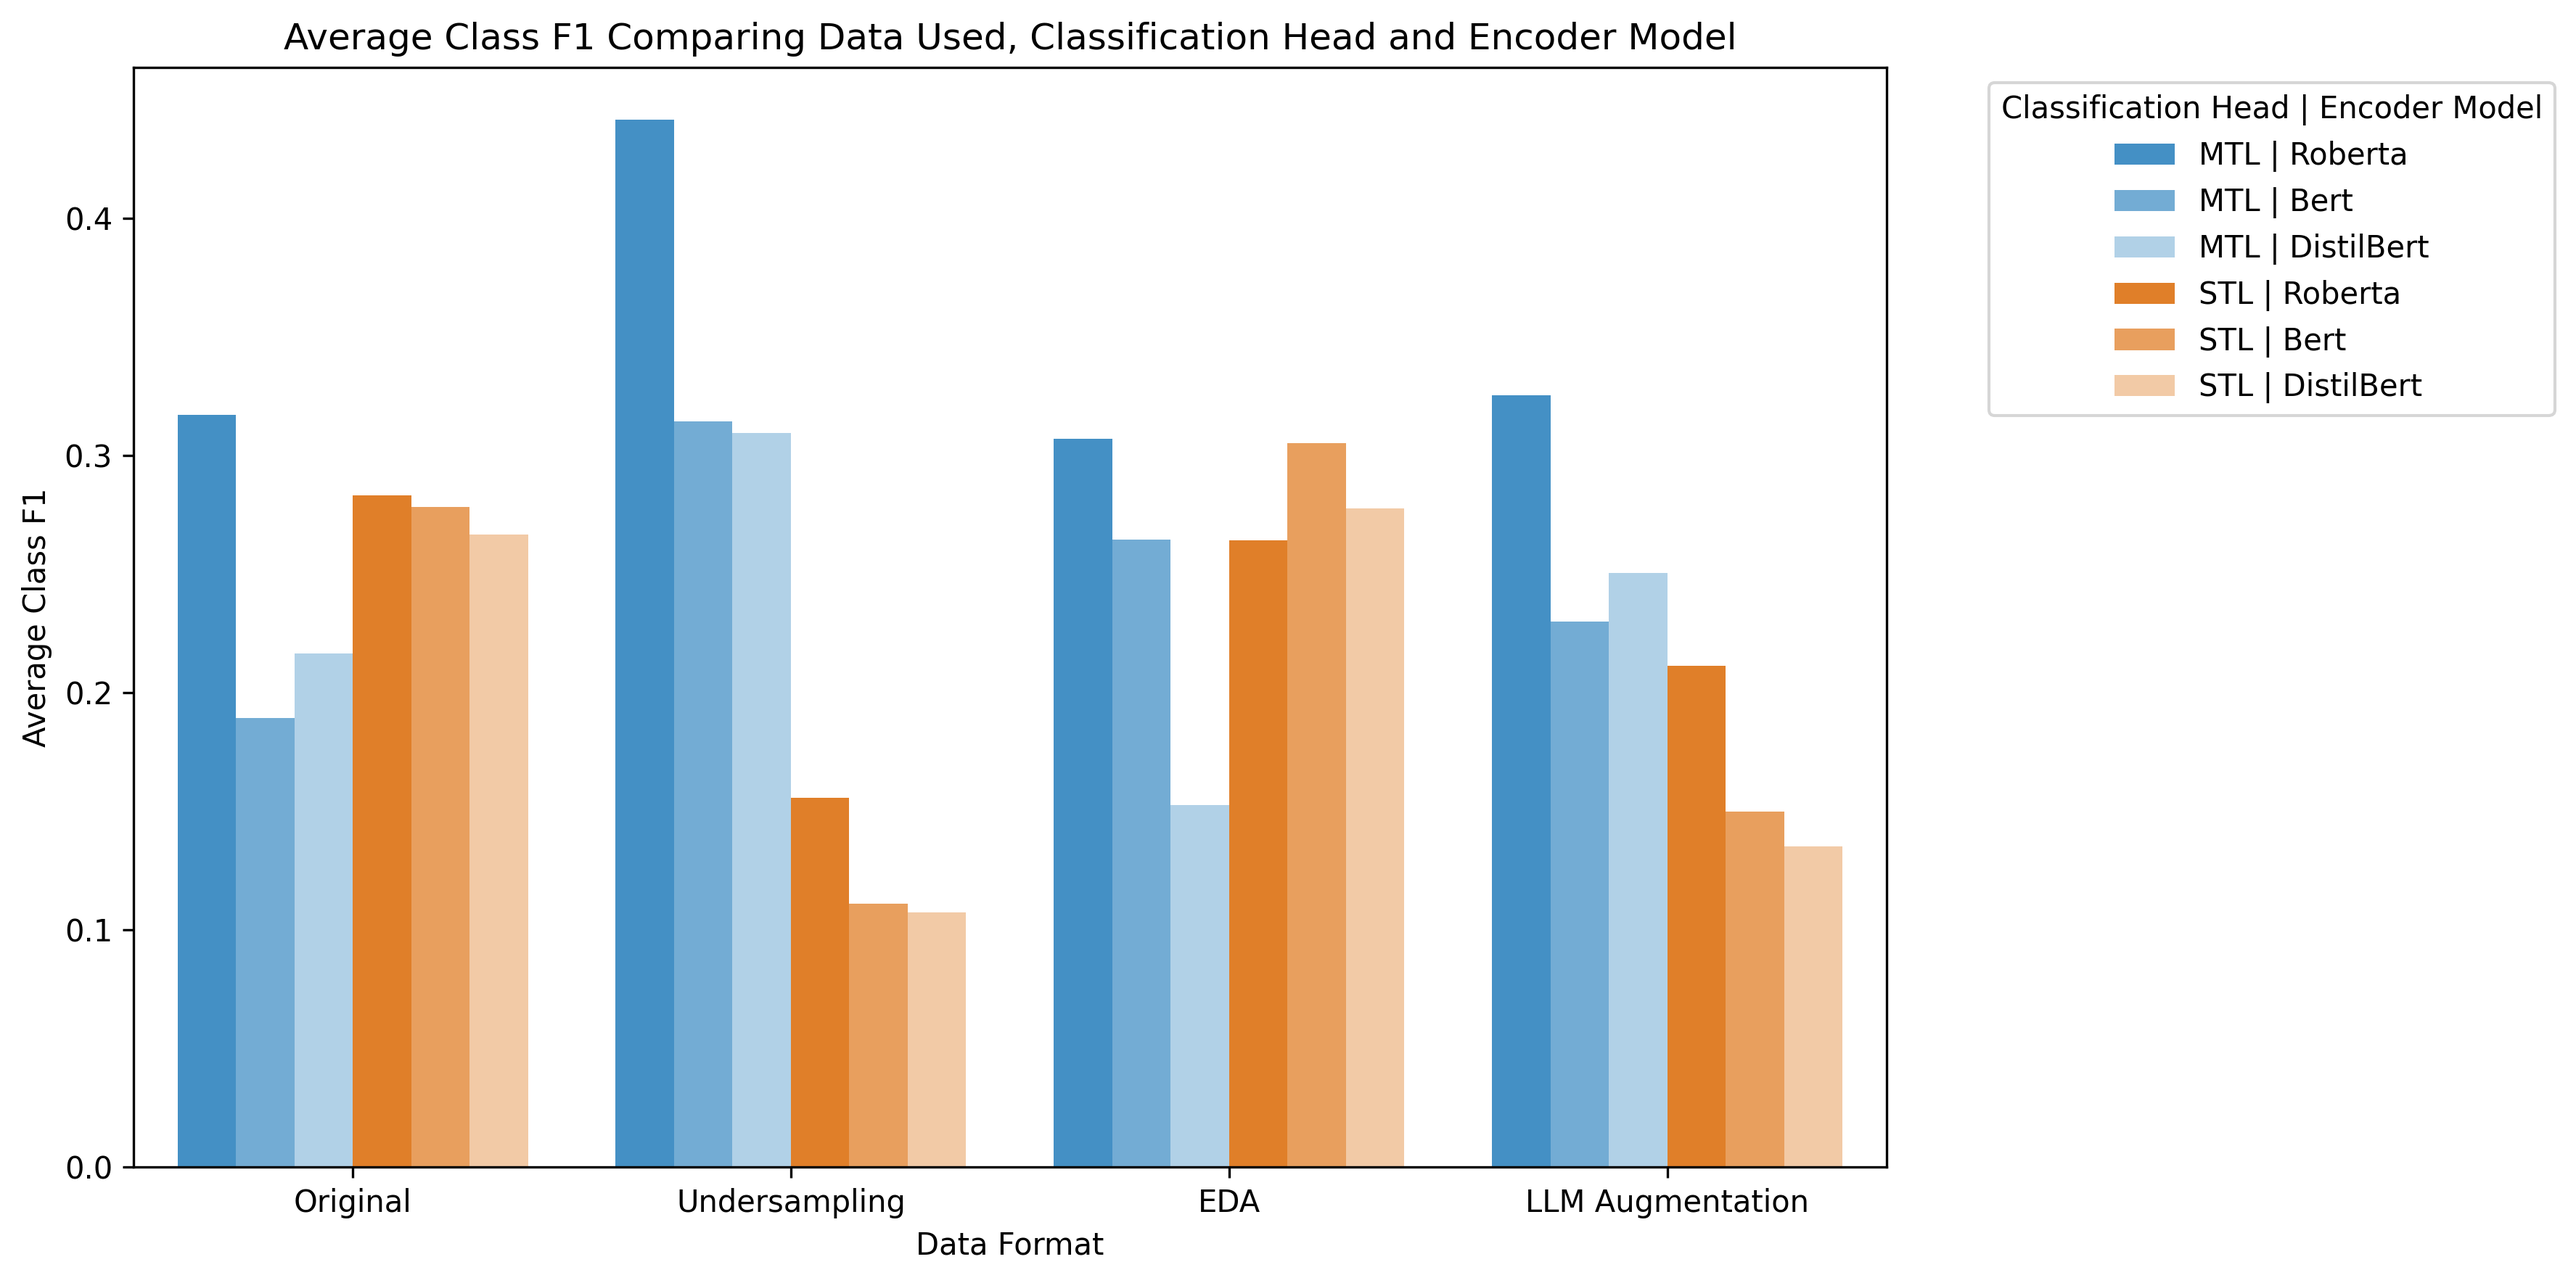
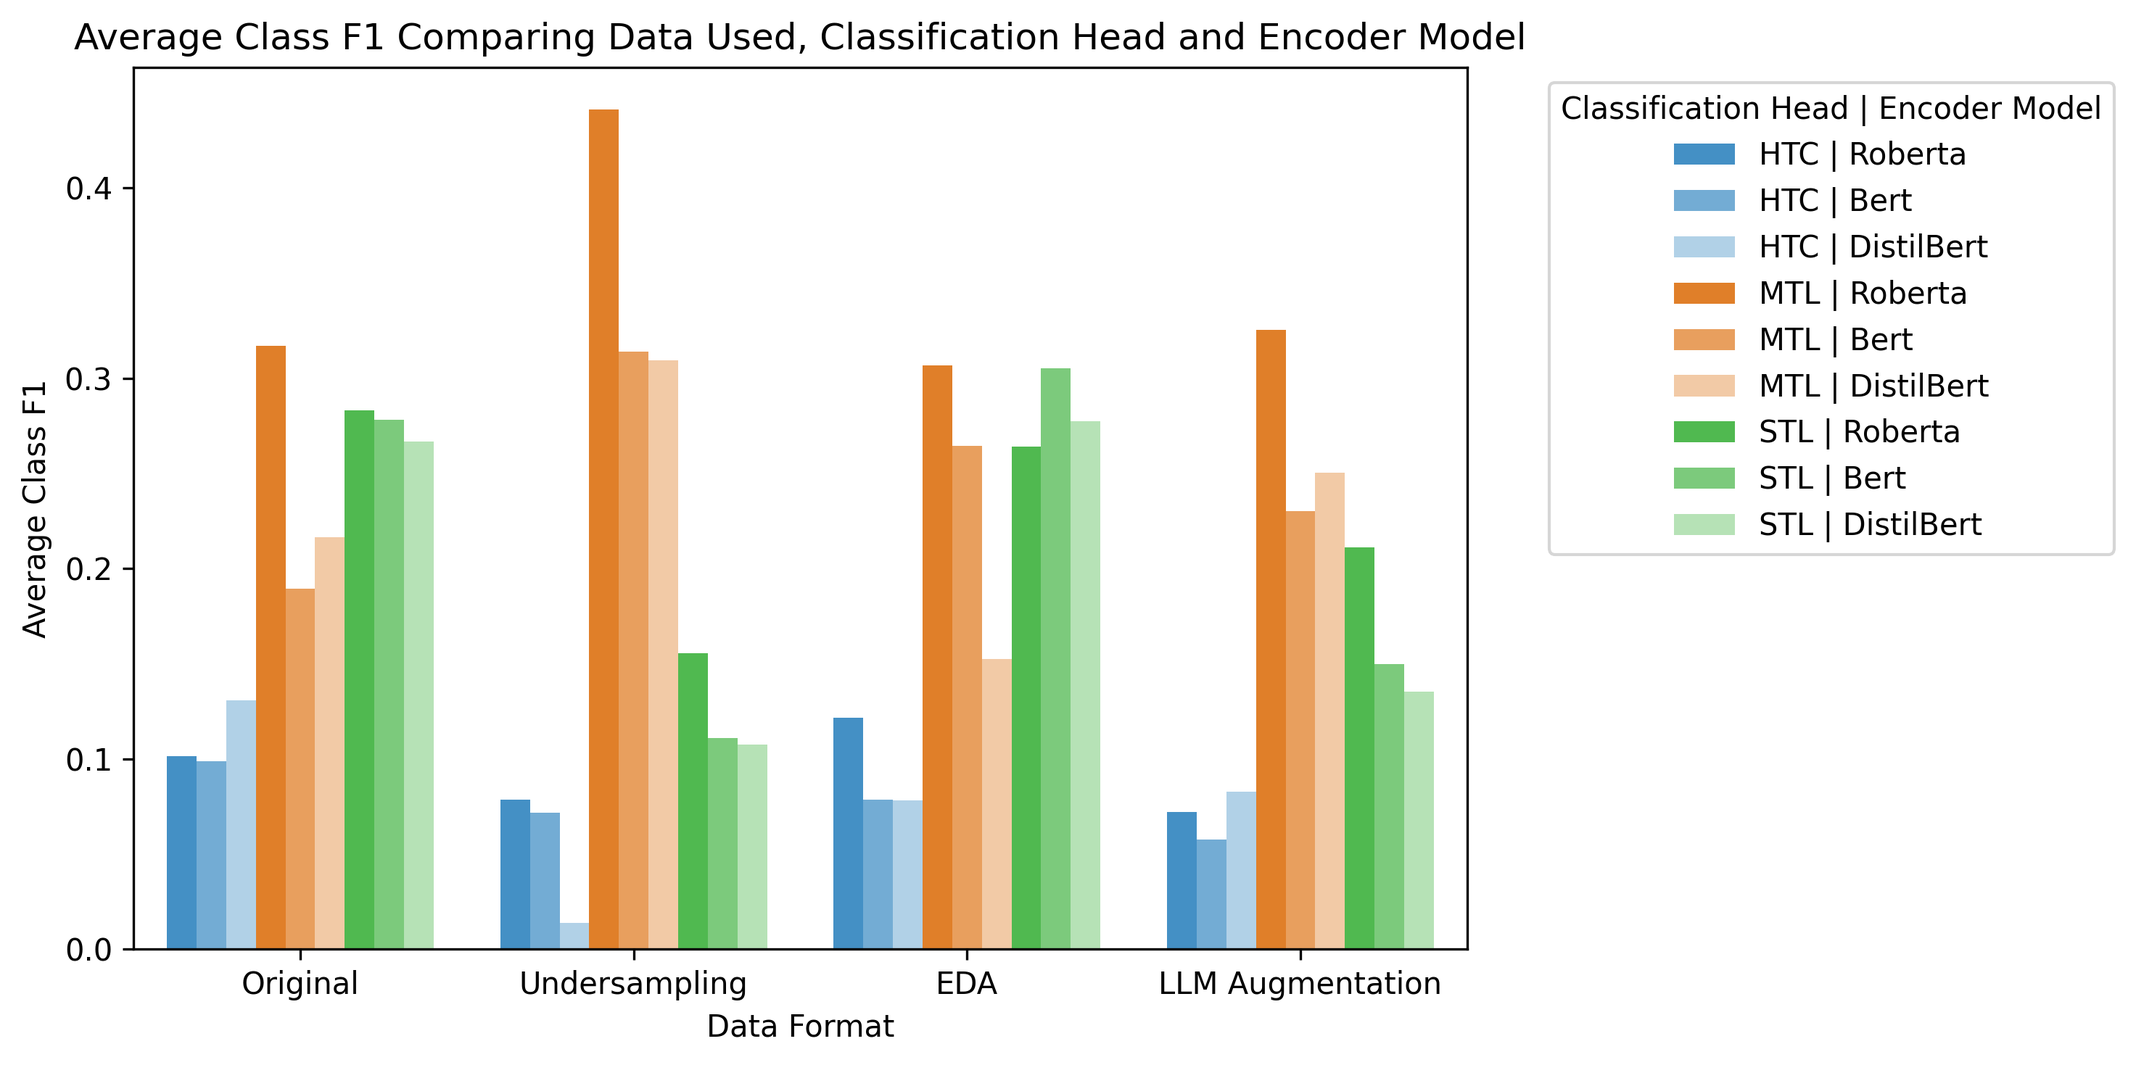
removed old plots

diff --git a/Final Results/plotting.py b/Final Results/plotting.py
@@ -6,6 +6,8 @@ import pandas as pd
 import argparse
 import numpy as np
 
+FIG_SIZE = (10, 5)
+
 def clean_names(bert_model_name, classification_model_name, aug_name):
     if classification_model_name == "MTL 6":
         classification_model_name = "MTL"
@@ -72,7 +74,7 @@ def get_metric_txt(dir="metrics"):
 
             file_dir = os.path.join(dir, file_name)
             text = open(file_dir).read()
-            if classification_model_name != "STL":
+            if classification_model_name == "MTL":
                 f1, digits = get_f1_from_txt(text, classification_model_name)
             else:
                 csv_file_name = file_name[:-13] + "metrics.csv"
@@ -181,7 +183,7 @@ def plot_metrics(metrics_df, filename, metric_to_plot = "class_f1"):
         for bert in bert_models_ordered:
             sorted_combos.append(f"{clf} | {bert}")
 
-    plt.figure(figsize=(12, 6))
+    plt.figure(figsize=FIG_SIZE)
     sns.barplot(
         data=df,
         x='augmentation',
@@ -227,7 +229,7 @@ def plot_class_f1s(class_f1s_df, filename):
     # 3. Sort by Category to group similar classes together
     df_melted = df_melted.sort_values(by=['Category', 'Fallacy Type'])
 
-    plt.figure(figsize=(12, 6))
+    plt.figure(figsize=FIG_SIZE)
 
     ax = sns.barplot(
         x='Fallacy Type',
